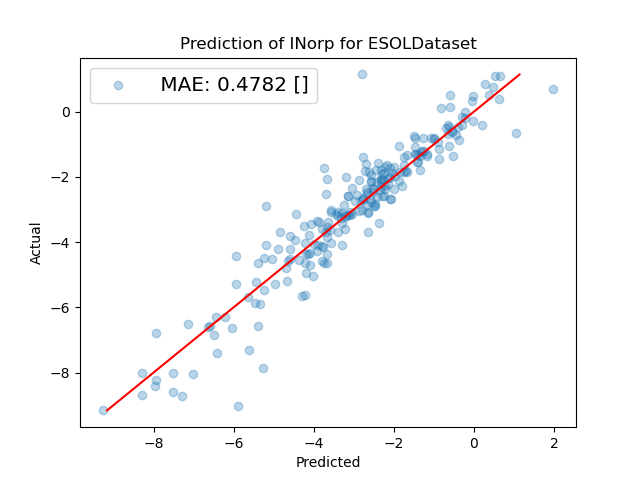
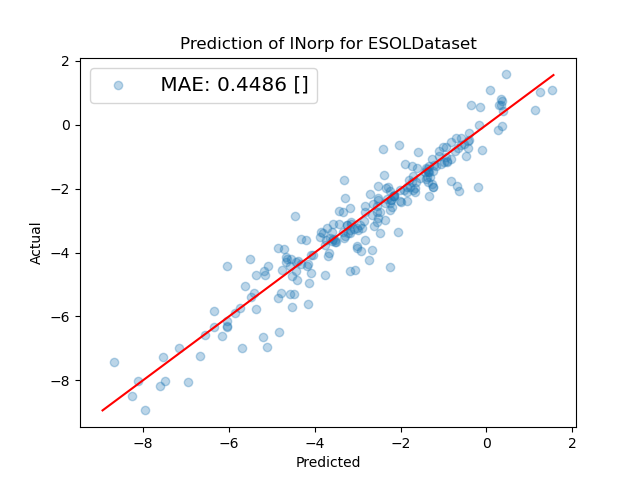
Major refactoring for version 2.0

diff --git a/kgcnn/data/base.py b/kgcnn/data/base.py
@@ -442,12 +442,17 @@ class MemoryGraphList:
                 self.logger.warning("Can not clean property %s as it was not assigned to any graph." % item)
                 continue
             for i, x in enumerate(props):
+                # If property is neither list nor np.array
                 if x is None or not hasattr(x, "__getitem__"):
                     self.logger.info("Property %s is not defined for graph %s." % (item_name, i))
                     invalid_graphs.append(i)
-                elif len(x) <= 0:
-                    self.logger.info("Property %s is with zero length for graph %s." % (item_name, i))
+                elif not isinstance(x, np.ndarray):
+                    self.logger.info("Property %s is not a numpy array for graph %s." % (item_name, i))
                     invalid_graphs.append(i)
+                elif len(x.shape) > 0:
+                    if len(x) <= 0:
+                        self.logger.info("Property %s is empty list for graph %s." % (item_name, i))
+                        invalid_graphs.append(i)
         invalid_graphs = np.unique(np.array(invalid_graphs, dtype="int"))
         invalid_graphs = np.flip(invalid_graphs)  # Need descending order
         self.logger.warning("Found invalid graphs for properties. Removing graphs %s." % invalid_graphs)
@@ -505,7 +510,7 @@ class MemoryGraphDataset(MemoryGraphList):
         """
         super(MemoryGraphDataset, self).__init__()
         # For logging.
-        self.logger = module_logger
+        self.logger = logging.getLogger("kgcnn.data." + dataset_name) if dataset_name is not None else module_logger
         self.logger.setLevel(verbose)
         # Dataset information on file.
         self.data_directory = data_directory

diff --git a/training/hyper/hyper_esol.py b/training/hyper/hyper_esol.py
@@ -380,8 +380,7 @@ hyper = {
             "set2set_args": {"channels": 16, "T": 3, "pooling_method": "sum", "init_qstar": "0"},
             "node_ff_args": {"units": [64, 32], "activation": "kgcnn>softplus2"},
             "edge_ff_args": {"units": [64, 32], "activation": "kgcnn>softplus2"},
-            "state_ff_args": {"units": [64, 32], "activation": "kgcnn>softplus2",
-                              "input_tensor_type": "tensor"},
+            "state_ff_args": {"units": [64, 32], "activation": "kgcnn>softplus2"},
             "nblocks": 3, "has_ff": True, "dropout": None, "use_set2set": True,
             "make_distance": True, "expand_distance": True,
             "verbose": 1,
@@ -408,6 +407,7 @@ hyper = {
             }
         },
         "data": {
+            "set_attributes": {},
             "set_range": {"max_distance": 4, "max_neighbours": 100},
         },
         "info": {

diff --git a/kgcnn/literature/Megnet.py b/kgcnn/literature/Megnet.py
@@ -31,8 +31,7 @@ model_default = {'name': "Megnet",
                  'set2set_args': {'channels': 16, 'T': 3, "pooling_method": "sum", "init_qstar": "0"},
                  'node_ff_args': {"units": [64, 32], "activation": "kgcnn>softplus2"},
                  'edge_ff_args': {"units": [64, 32], "activation": "kgcnn>softplus2"},
-                 'state_ff_args': {"units": [64, 32], "activation": "kgcnn>softplus2",
-                                   "input_tensor_type": "tensor"},
+                 'state_ff_args': {"units": [64, 32], "activation": "kgcnn>softplus2"},
                  'nblocks': 3, 'has_ff': True, 'dropout': None, 'use_set2set': True,
                  'verbose': 1, "make_distance": True, "expand_distance": True
                  }

diff --git a/training/train_moleculenet.py b/training/train_moleculenet.py
@@ -18,7 +18,7 @@ from kgcnn.utils.plots import plot_train_test_loss, plot_predict_true
 
 # Input arguments from command line.
 parser = argparse.ArgumentParser(description='Train a GNN on a Molecule dataset.')
-parser.add_argument("--model", required=False, help="Graph model to train.", default="GraphSAGE")
+parser.add_argument("--model", required=False, help="Graph model to train.", default="Megnet")
 parser.add_argument("--dataset", required=False, help="Name of the dataset or leave empty for custom dataset.",
                     default="ESOLDataset")
 parser.add_argument("--hyper", required=False, help="Filepath to hyper-parameter config file (.py or .json).",

diff --git a/kgcnn/data/datasets/MoleculeNetDataset2018.py b/kgcnn/data/datasets/MoleculeNetDataset2018.py
@@ -67,9 +67,9 @@ class MoleculeNetDataset2018(MoleculeNetDataset, DownloadDataset):
             verbose (int): Print progress or info for processing, where 0 is silent. Default is 1.
         """
         if not isinstance(dataset_name, str):
-            raise ValueError("ERROR:kgcnn: Please provide string identifier for TUDataset.")
+            raise ValueError("Please provide string identifier for TUDataset.")
 
-        MoleculeNetDataset.__init__(self, verbose=verbose)
+        MoleculeNetDataset.__init__(self, verbose=verbose, dataset_name=dataset_name)
 
         # Prepare download
         if dataset_name in self.datsets_download_info:

diff --git a/kgcnn/data/datasets/GraphTUDataset2020.py b/kgcnn/data/datasets/GraphTUDataset2020.py
@@ -58,7 +58,7 @@ class GraphTUDataset2020(GraphTUDataset, DownloadDataset):
         if not isinstance(dataset_name, str):
             raise ValueError("Please provide string identifier for TUDataset.")
 
-        GraphTUDataset.__init__(self, verbose=verbose)
+        GraphTUDataset.__init__(self, verbose=verbose, dataset_name=dataset_name)
 
         # Prepare download
         if dataset_name in self.tudataset_ids:
